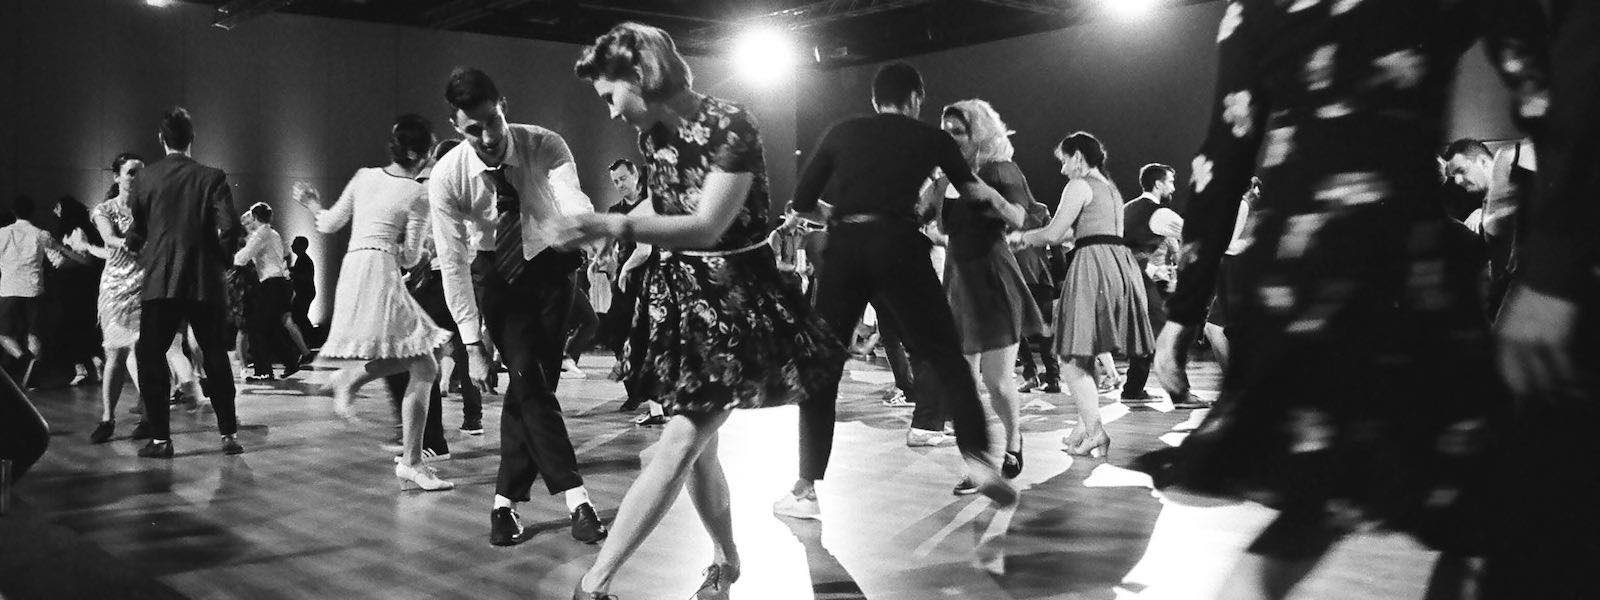
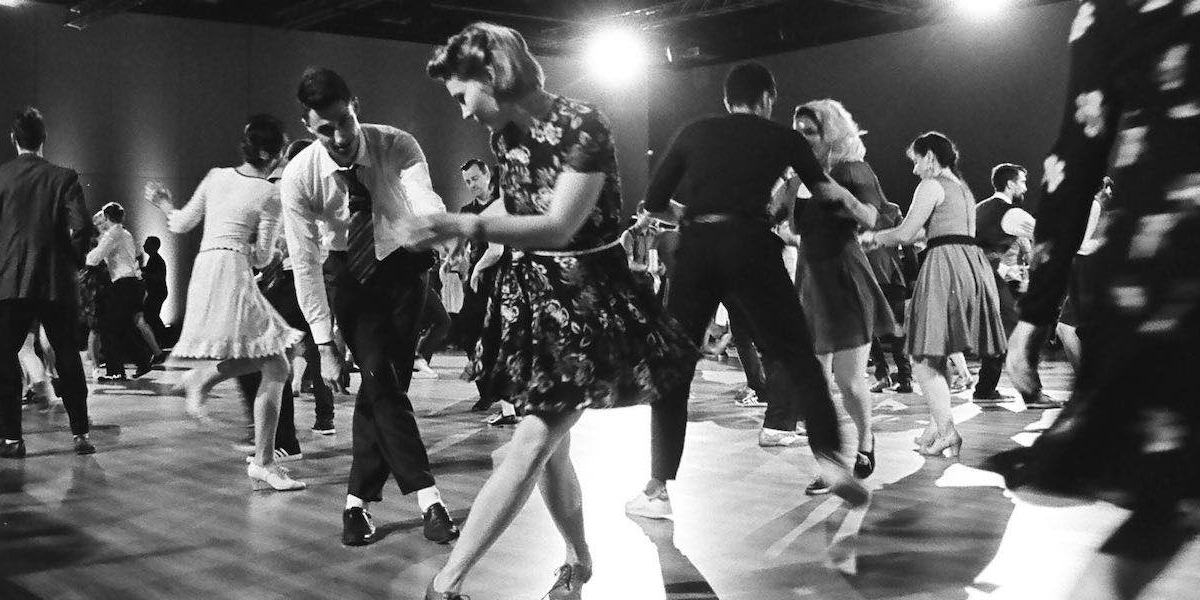
slider max 1200, canvis en el menú burger

diff --git a/index.html b/index.html
@@ -55,39 +55,44 @@
 
     <!-- NAVIGATION MENU AND LOGO -->
 
-    <div class="container-fluid nav-menu pt-3 pb-2 pb-sm-3">
+    <div class="container-fluid nav-menu pt-3 pb-lg-3">
 
     <!-- LOGO -->
 
     <div class="row px-5 align-middle" style="max-width: 1300px; margin: auto;">
-      <div class="col-12 col-sm-8 col-lg-4">
-        <a href="/"><img src="/images/logo-la-mar-de-swing.jpg" alt="La Mar de Swing" class="mx-auto mx-sm-0 img-fluid" width="235px" height="60px" style="min-height: 100%;"></a>
+      <div class="col-12 col-sm-12 col-lg-4">
+        <a href="/"><img src="/images/logo-la-mar-de-swing.jpg" alt="La Mar de Swing" class="mx-auto mx-sm-auto img-fluid" width="235px" height="60px" style="min-height: 100%;"></a>
       </div>
 
       <!-- NAVIGATION -->
 
-      <div class="col-12 col-sm-4 col-lg-8">
+      <div class="col-12 col-sm-12 col-lg-8 pt-1">
         <nav class="navbar navbar-expand-lg navbar-light">
-          <div class="container-fluid justify-content-center justify-content-sm-end px-0">
+          <div class="container-fluid justify-content-center">
             <button class="navbar-toggler" type="button" data-bs-toggle="collapse" data-bs-target="#navbarTogglerDemo02" aria-controls="navbarTogglerDemo02" aria-expanded="false" aria-label="Toggle navigation">
               <span class="navbar-toggler-icon"></span>
             </button>
             <div class="collapse navbar-collapse justify-content-end" id="navbarTogglerDemo02">
               <ul class="navbar-nav text-center">
                 <li class="nav-item">
-                  <a class="nav-link active" aria-current="page" href="#">Home</a>
+                  <a class="nav-link" href="#">Swing al Maresme</a>
                 </li>
                 <li class="nav-item">
-                  <a class="nav-link" href="#">Link</a>
+                  <a class="nav-link" href="#">Cursos</a>
                 </li>
                 <li class="nav-item">
-                  <a class="nav-link disabled" href="#" tabindex="-1" aria-disabled="true">Disabled</a>
+                  <a class="nav-link" href="#">Classes Particulars</a>
+                </li>
+                <li class="nav-item">
+                  <a class="nav-link" href="#">Contacte</a>
                 </li>
               </ul>
             </div>
           </div>
         </nav>
       </div>
+
+      
     </div>
   </div>
 
@@ -101,7 +106,7 @@
           </div>
           <div class="carousel-inner">
             <div class="carousel-item active">
-              <img src="/images/cursos-de-swing.jpg" class="d-block w-100 opacity-7" alt="Cursos Regulars">
+              <img src="/images/cursos-de-swing.jpg" class="d-block img-cover opacity-7" alt="Cursos Regulars">
               <div class="carousel-caption d-none d-md-block">
                 <h2>Aprèn a ballar Swing!</h2>
                 <p>Apunta't als nostres cursos i descobreix el ball més divertit.<br>Coneixeràs gent i aprendràs a seguir el ritme de la música més animada del món.</p>
@@ -109,7 +114,7 @@
               </div>
             </div>
             <div class="carousel-item">
-              <img src="/images/classes-particulars.jpg" class="d-block w-100 opacity-7" alt="Classes Particulars">
+              <img src="/images/classes-particulars.jpg" class="d-block opacity-7 img-cover" alt="Classes Particulars">
               <div class="carousel-caption d-none d-md-block">
                 <h2>Necessites Classes Particulars?</h2>
                 <p>La millor manera per aprendre ràpid i de manera personalitzada.<br>Reserva una classe particular, i t'ensenyarem en persona perquè milloris molt el teu ball.</p>

diff --git a/style.css b/style.css
@@ -84,12 +84,36 @@
   opacity: .7;
 }
 
-/* Nav Menu and Top Bar */
+/* Top Bar */
 
 .top-bar {
     background-color: var(--lmds-primary-color);
     font-family: var(--lmds-primary-font)
 }
+
+/* Nav Menu con Drowpdowns */
+
+.dropdown-menu li {
+  position: relative;
+  }
+
+.dropdown-menu .dropdown-submenu {
+  display: none;
+  position: absolute;
+  left: 100%;
+  top: -7px;
+  }
+
+.dropdown-menu .dropdown-submenu-left {
+  right: 100%;
+  left: auto;
+  }
+
+.dropdown-menu > li:hover > .dropdown-submenu {
+  display: block;
+  }
+
+/* Nav Menu V1 */
 
 .nav-menu {
   background-color: white;
@@ -99,24 +123,49 @@
 
 .nav-link{
   color: darkslategray;
-  transition: all .2s ease;
 }
 
 .nav-link:hover{
   color: black;
-  margin-top: -7px;
 }
 
-.nav-link:hover::after {
-  content: "";
-  display: flex;
-  border-bottom: 2px solid var(--lmds-primary-color)
+/* Navbar Responsive */
+
+.navbar-toggler {
+  border: none;
+}
+
+.navbar-toggler,
+.navbar-toggler:focus,
+.navbar-toggler:active,
+.navbar-toggler-icon:focus {
+    outline: none;
+    border: none;
+    box-shadow: none;
 }
 
 /* CARRUSEL */
 
 .carousel {
   background-color: black;
+  max-width: 1200px;
+  margin: auto;
+}
+
+.carousel img {
+  max-width: unset;
+}
+
+/* IMAGEN OBJECT FIT COVER - Para que quede centrada y maximo ancho */
+
+.img-cover {
+  object-fit: cover;
+  min-height: 100%;
+  width: auto;
+}
+
+.carousel-inner {
+  min-height: 500px;
 }
 
 .carousel-caption {
